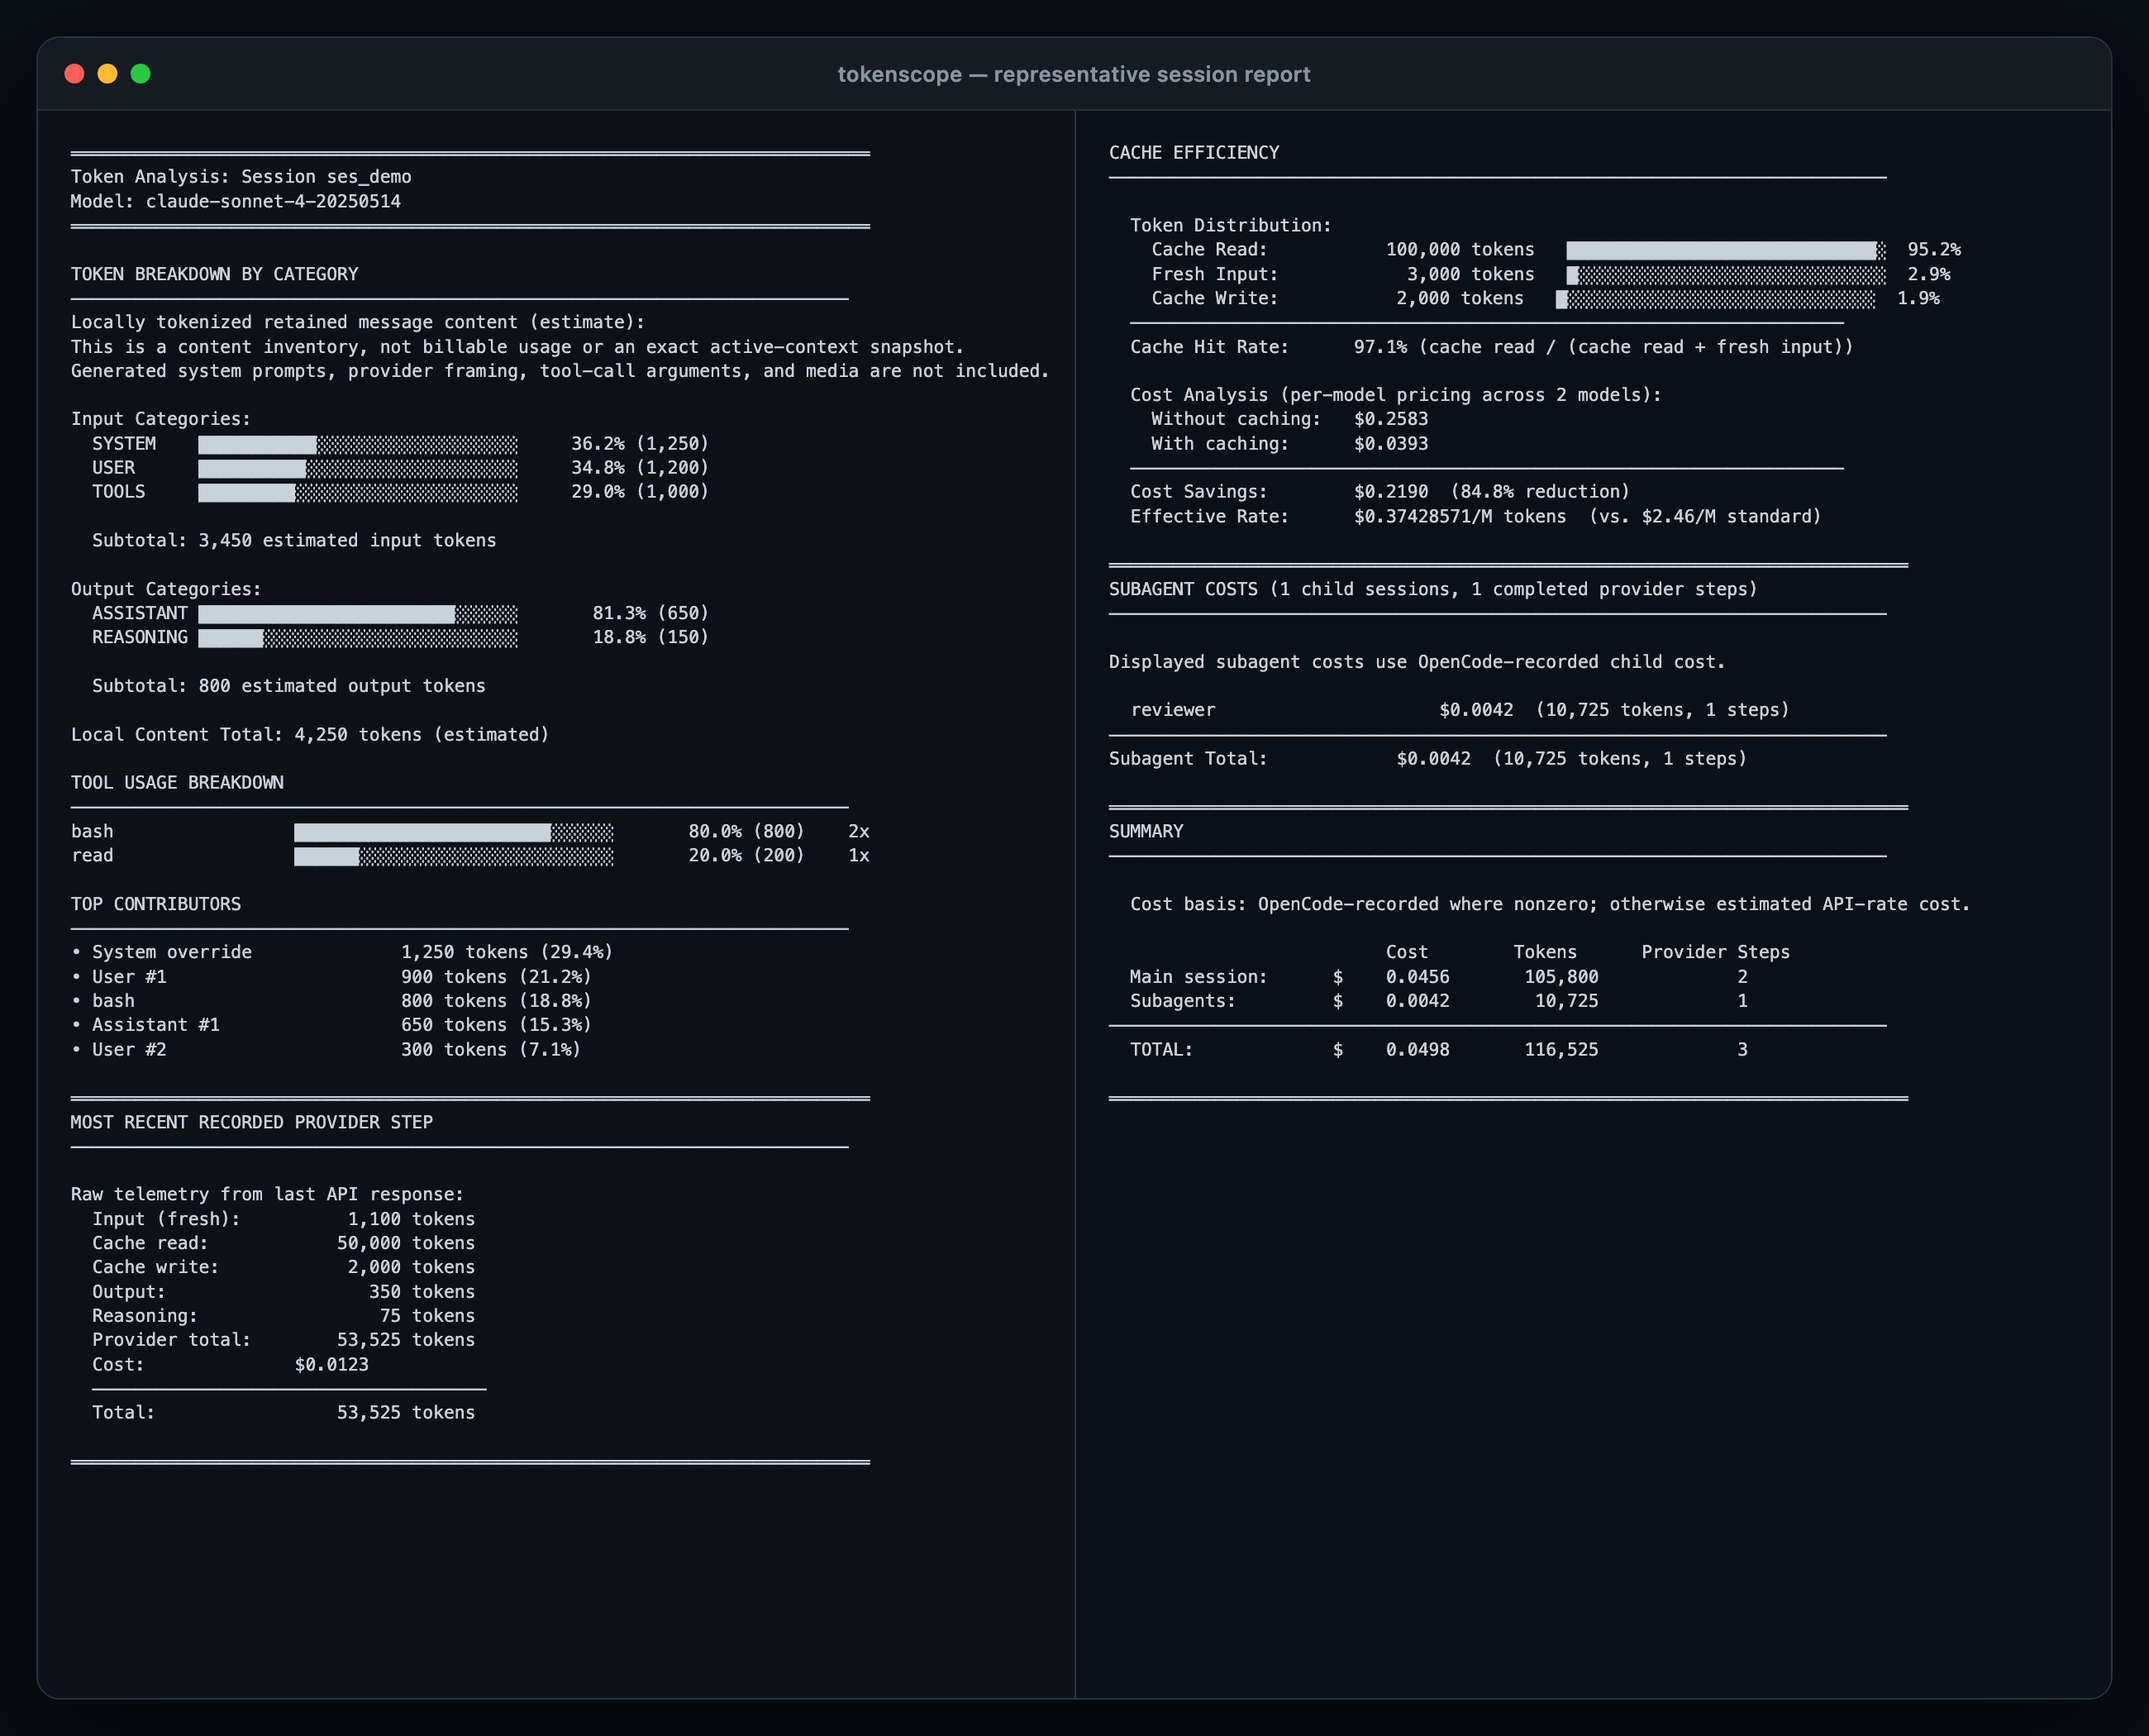
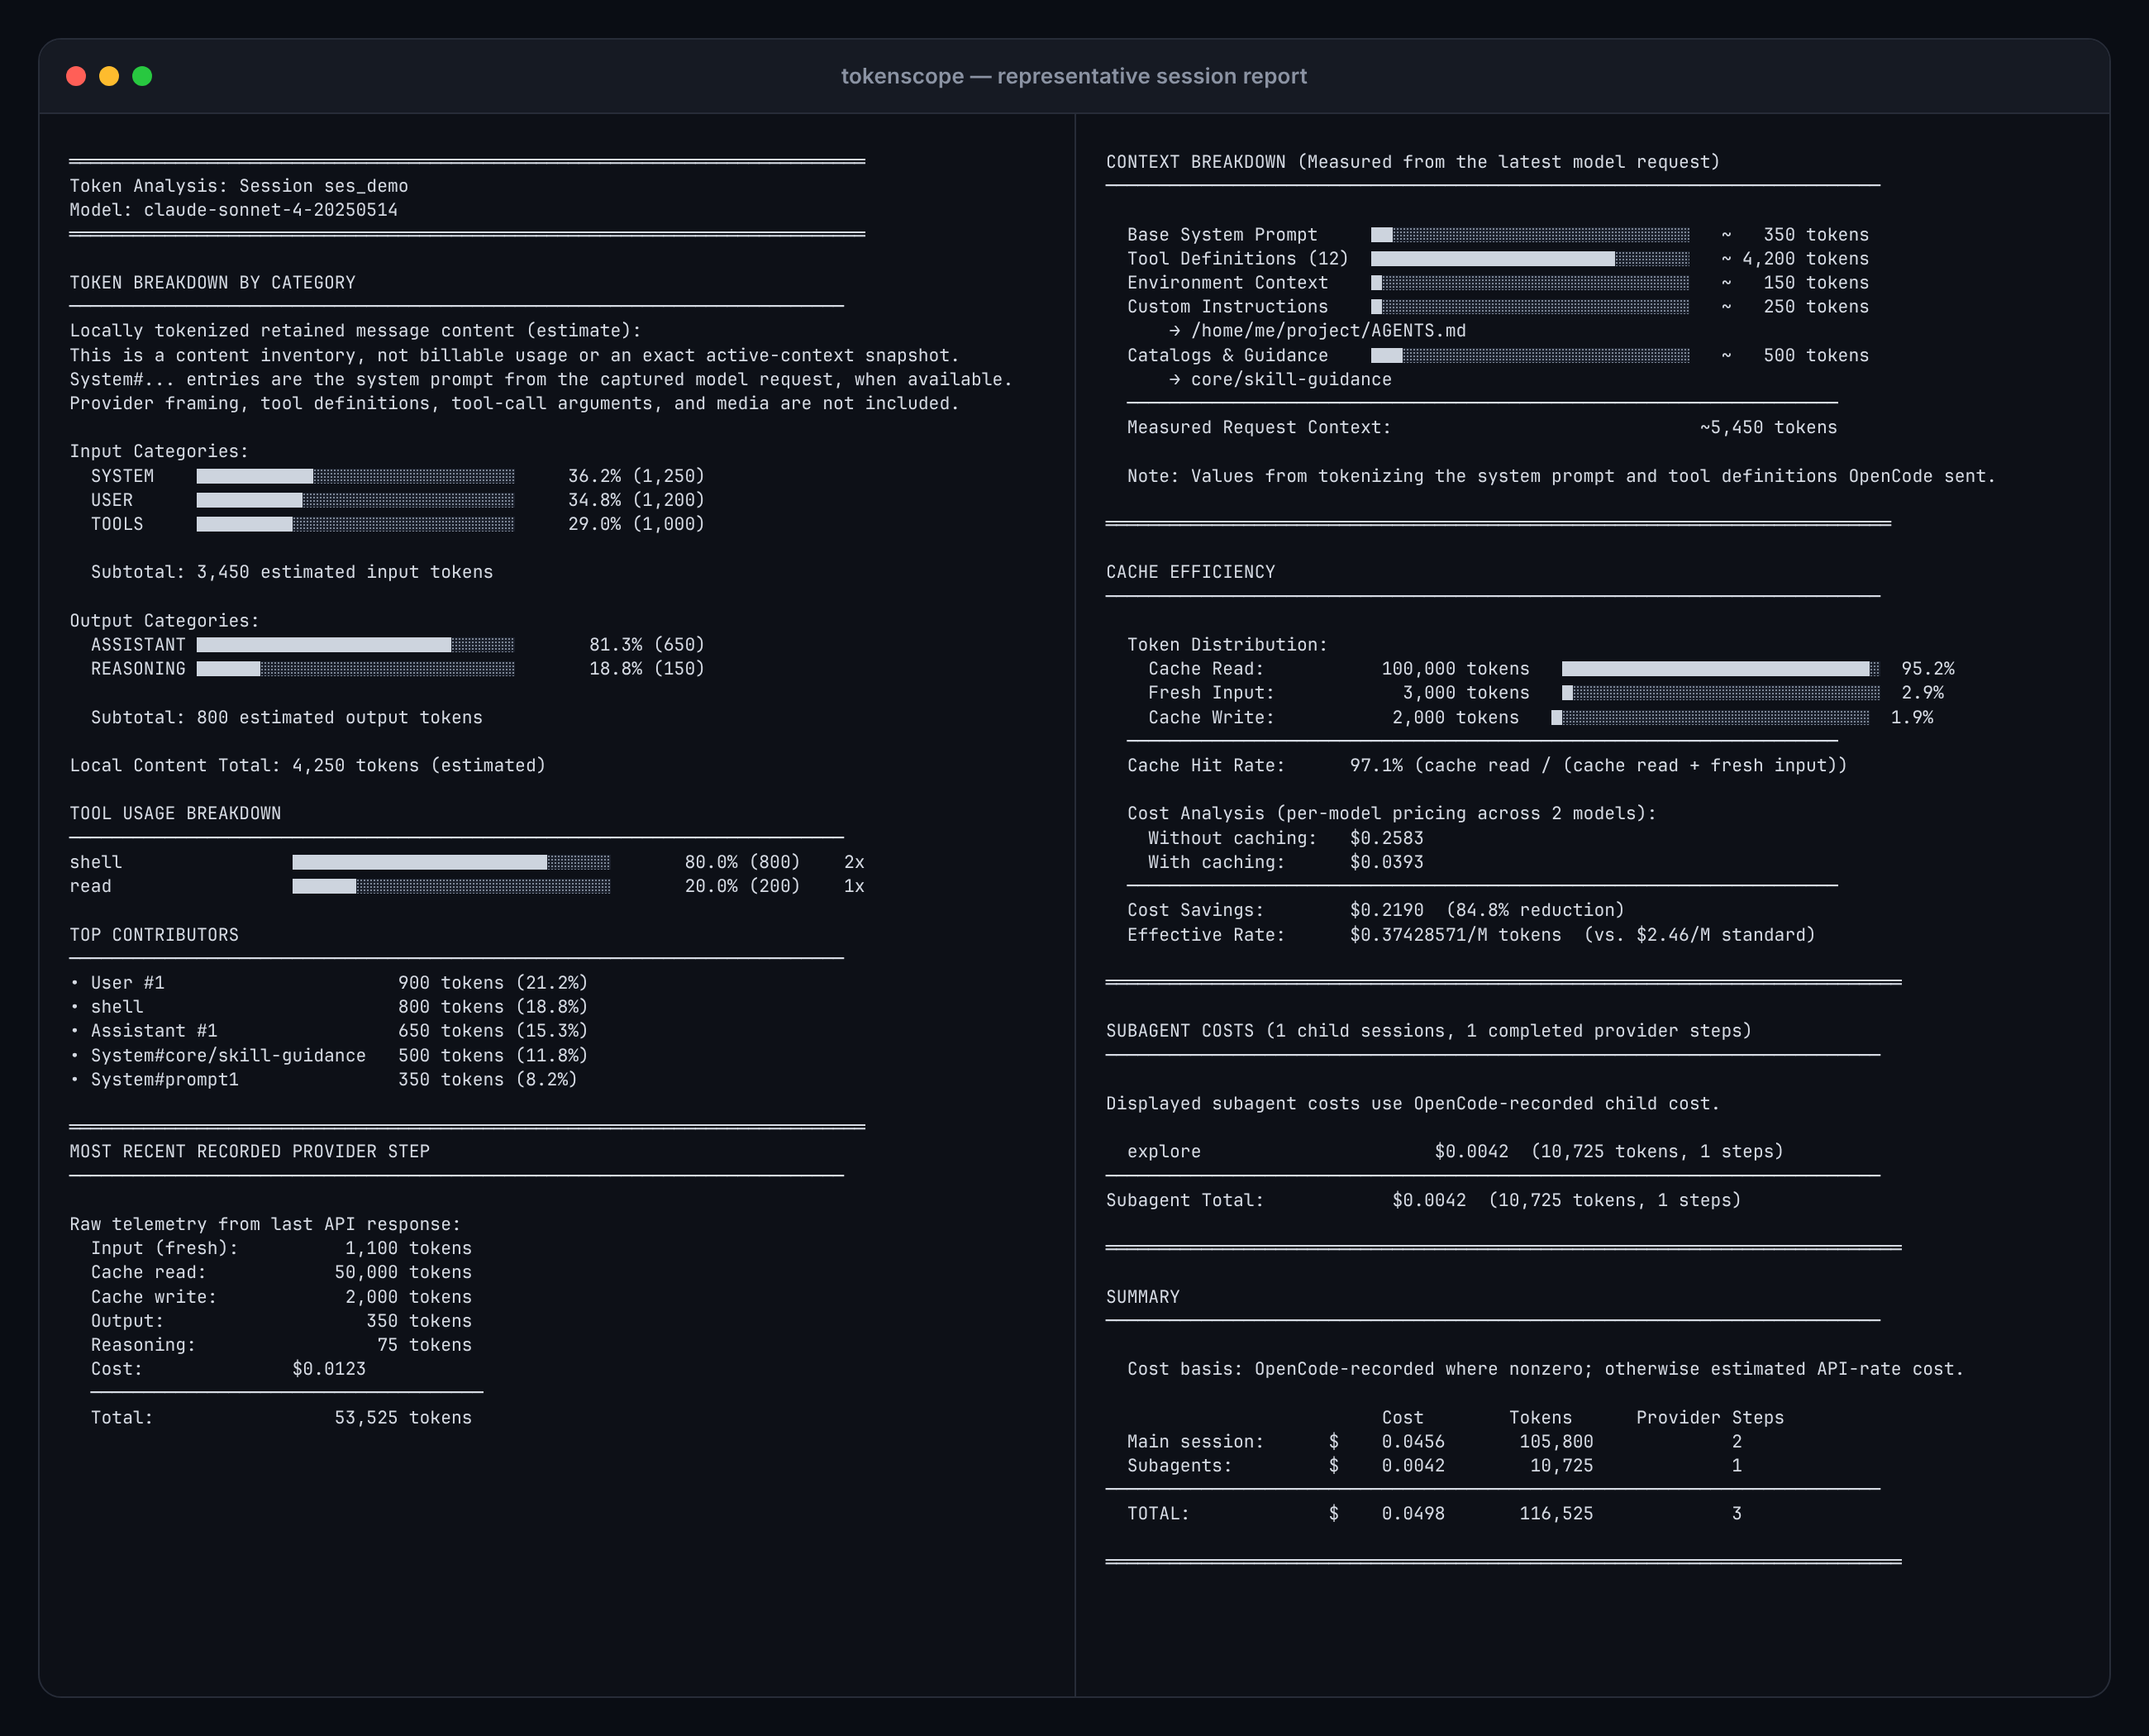
docs: update the report preview for OpenCode V2

diff --git a/plugin/README.md b/plugin/README.md
@@ -80,9 +80,9 @@ The script checks `opencode --version`. On OpenCode V2 it runs `opencode plugin 
 
 ## See TokenScope in Action
 
-![Representative TokenScope report showing retained content, provider telemetry, cache efficiency, subagent cost, and session totals](https://raw.githubusercontent.com/ramtinJ95/opencode-tokenscope/main/docs/tokenscope-report.png)
+![Representative TokenScope report on OpenCode V2 showing retained content, provider telemetry, the measured request context, cache efficiency, subagent cost, and session totals](https://raw.githubusercontent.com/ramtinJ95/opencode-tokenscope/main/docs/tokenscope-report.png)
 
-<sub>Representative report generated by TokenScope from the repository's deterministic sample session.</sub>
+<sub>Representative OpenCode V2 report generated by TokenScope from the repository's deterministic sample session. On OpenCode V1 the layout is the same and the context breakdown is estimated instead of measured.</sub>
 
 A report brings the session's main signals together:
 

diff --git a/README.md b/README.md
@@ -80,9 +80,9 @@ The script checks `opencode --version`. On OpenCode V2 it runs `opencode plugin 
 
 ## See TokenScope in Action
 
-![Representative TokenScope report showing retained content, provider telemetry, cache efficiency, subagent cost, and session totals](docs/tokenscope-report.png)
+![Representative TokenScope report on OpenCode V2 showing retained content, provider telemetry, the measured request context, cache efficiency, subagent cost, and session totals](docs/tokenscope-report.png)
 
-<sub>Representative report generated by TokenScope from the repository's deterministic sample session.</sub>
+<sub>Representative OpenCode V2 report generated by TokenScope from the repository's deterministic sample session. On OpenCode V1 the layout is the same and the context breakdown is estimated instead of measured.</sub>
 
 A report brings the session's main signals together:
 
